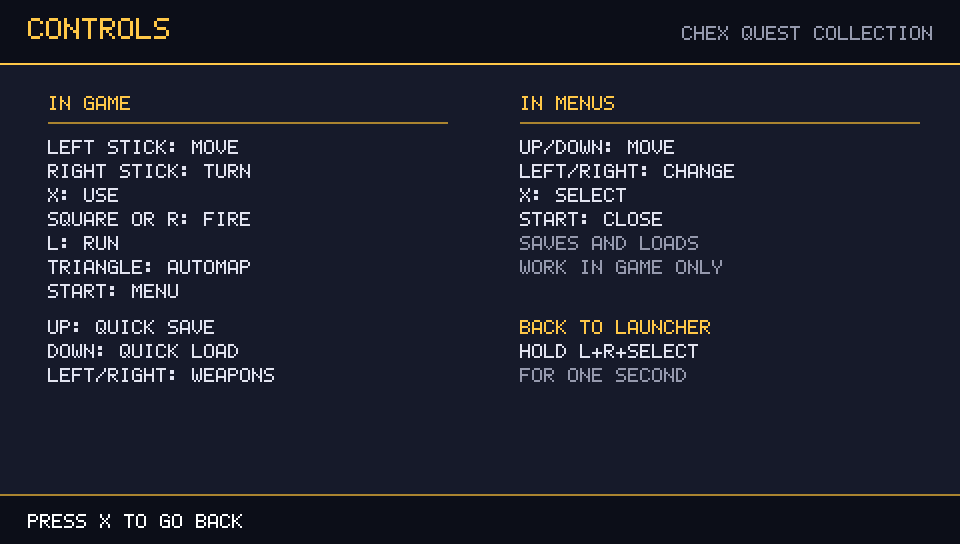
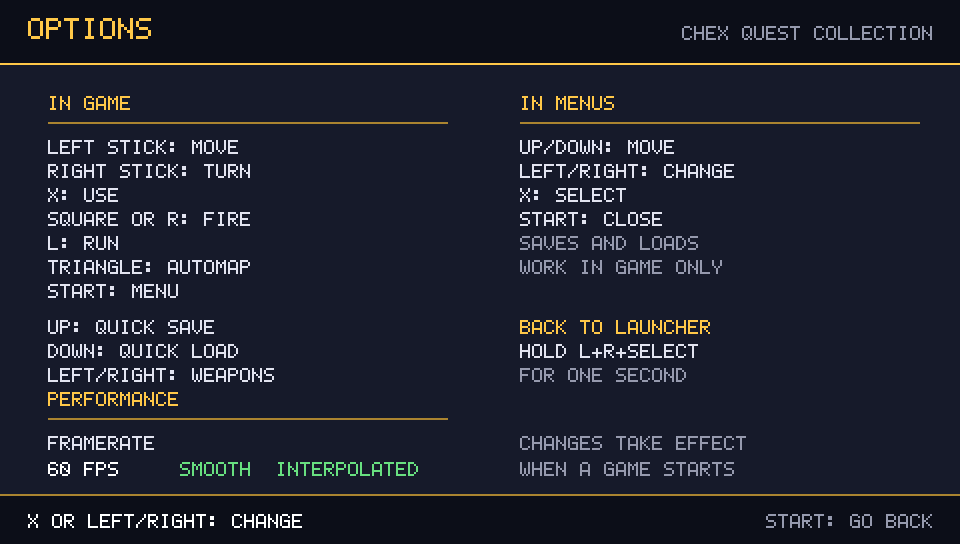
Document the framerate option and refresh the screenshots
The options screen now shows the controls next to the frame pacing setting,
so the README gets a Framerate section explaining what 60 fps interpolated
means and how to get the original 35 back, and the contract tests cover the
new loop, the row-wise upscaler and the saved setting.

🤖 Generated with Codebuff

diff --git a/tests/test_collection_contract.py b/tests/test_collection_contract.py
@@ -62,6 +62,37 @@ class CollectionContractTests(unittest.TestCase):
         for filename in ("assets/logo_chexquest1.png", "assets/logo_chexquest2.png", "assets/logo_chexquest3.png", "launcher.jfif"):
             self.assertTrue((ROOT / filename).is_file(), filename)
 
+    def test_frame_loop_interpolates_the_view_at_sixty(self):
+        source = (ROOT / "doomgeneric_vita.c").read_text(encoding="utf-8")
+        # The game is drawn once per vsync, from an interpolated camera ...
+        self.assertIn("static void game_loop_smooth(void)", source)
+        self.assertIn("view_apply(subtic_fraction());", source)
+        self.assertIn("view_restore();", source)
+        self.assertIn("D_Display();", source)
+        # ... while the original tic paced loop stays available as an option.
+        self.assertIn("static void game_loop_classic(void)", source)
+        self.assertIn("FPS_CLASSIC 35", source)
+        self.assertIn("FPS_SMOOTH 60", source)
+        self.assertNotIn("while (1) doomgeneric_Tick();", source)
+
+    def test_upscaler_expands_each_source_row_once(self):
+        source = (ROOT / "doomgeneric_vita.c").read_text(encoding="utf-8")
+        self.assertIn("static void blit_expand_row", source)
+        self.assertIn("memcpy(dst + y * VITA_W, blit_line, sizeof(blit_line));", source)
+        self.assertIn("int sy = blit_row_src[y];", source)
+        # the per pixel palette branch and the fixed point walk are gone
+        self.assertNotIn("if (launcher_frame) {", source)
+        self.assertNotIn("sx_f += step_x;", source)
+
+    def test_framerate_choice_is_saved_and_documented(self):
+        source = (ROOT / "doomgeneric_vita.c").read_text(encoding="utf-8")
+        self.assertIn('VITA_GAME_DATA_DIR "settings.cfg"', source)
+        self.assertIn('"framerate=%d\\n"', source)
+        self.assertIn("settings_load();", source)
+        readme = (ROOT / "README.md").read_text(encoding="utf-8")
+        self.assertIn("## Framerate", readme)
+        self.assertIn("35 FPS (classic)", readme)
+
     def test_readme_is_english(self):
         readme = (ROOT / "README.md").read_text(encoding="utf-8")
         self.assertIn("## PS Vita controls", readme)

diff --git a/README.md b/README.md
@@ -2,7 +2,7 @@
 
 One Vita app for **Chex Quest 1**, **Chex Quest 2** and **Chex Quest 3: Vanilla Edition**. Pick a game in the launcher and press **Cross** or **START** to play it.
 
-The launcher is a proper menu now: it lists the three games plus a data-files row, shows at a glance which games are ready, plays menu music and blips, and can hand you the game data with a QR code if something is missing.
+The launcher is a proper menu now: it lists the three games plus a data-files row, shows at a glance which games are ready, plays menu music and blips, and can hand you the game data with a QR code if something is missing. Games run at **60 frames per second** with a smooth, interpolated view, and the old 35 fps pacing is still one press away in the options screen.
 
 ## Screenshots
 
@@ -14,9 +14,9 @@ The launcher is a proper menu now: it lists the three games plus a data-files ro
 |---|---|
 | ![Data files screen with QR code](docs/screenshots/data-qr.png) | ![Data screen reporting the missing files](docs/screenshots/data-missing.png) |
 
-| Controls | Return to launcher | Quick save |
+| Options and controls | Return to launcher | Quick save |
 |---|---|---|
-| ![Controls screen](docs/screenshots/controls.png) | ![Hold L, R and Select to return to the launcher](docs/screenshots/return-to-launcher.png) | ![Quick saved confirmation](docs/screenshots/quick-save.png) |
+| ![Options screen with the controls and the framerate setting](docs/screenshots/controls.png) | ![Hold L, R and Select to return to the launcher](docs/screenshots/return-to-launcher.png) | ![Quick saved confirmation](docs/screenshots/quick-save.png) |
 
 ## Download and install
 
@@ -77,6 +77,12 @@ Quick saves and loads confirm themselves with a short on-screen message ("QUICK 
 
 To leave a game and go back to the launcher, **hold L + R + SELECT for one second**: a progress bar fills up and the app reloads into the launcher.
 
+## Framerate
+
+Games draw at **60 fps** by default. The simulation still runs on Doom's fixed 35 Hz timestep, so the frame you see is interpolated between the last two tics: movement and turning are continuous instead of stepping 35 times per second, at the cost of the picture being one tic (about 28 ms) behind the input. If you would rather have the most direct feel, open the **OPTIONS** screen with **SELECT** in the launcher and switch to **35 FPS (classic)**, which draws exactly one frame per tic like the original engine.
+
+The choice is stored in `ux0:/data/chexquestcollection/settings.cfg` and applies the next time you start a game. The options screen also lists the full control mapping.
+
 ## Build
 
 Install VitaSDK, then run:
@@ -89,7 +95,7 @@ cmake --build build --parallel 1
 The contract tests check the launcher and data contracts against the sources:
 
 ```sh
-python -m unittest tests.test_collection_contract
+python -m unittest discover -s tests
 ```
 
 Game data and third-party trademarks/artwork remain the property of their respective owners; this project does not distribute WAD or DEH files.

diff --git a/docs/ROADMAP-v1.2.md b/docs/ROADMAP-v1.2.md
@@ -31,6 +31,17 @@ failing the build.
 There is no local VitaSDK, so every build comes from CI. The contract tests in
 `tests/` run locally with `python -m unittest discover -s tests`.
 
+## Status
+
+| Item | State |
+| --- | --- |
+| 60 fps frame loop, interpolated view, cheaper upscaler | implemented on `v1.2-dev`, **needs a test on hardware** |
+| Framerate option (SELECT → OPTIONS, saved in `settings.cfg`) | implemented |
+| Cheats menu | not started |
+| Arena mode | not started |
+| Resolution experiment | not started |
+| Co-op prototype | not started |
+
 ## Requested features and verdicts
 
 | Feature | Verdict | Why |
@@ -104,6 +115,15 @@ Work in three stages, each one testable on its own:
 
 Ship it as an option (`Framerate: 35 / 60`) with the 35 fps path kept as a
 fallback, so a slow scene or a card without the option can fall back safely.
+
+Implemented on `v1.2-dev` as the three stages above: each source row is expanded
+once and copied into the screen rows that map onto it, the port owns the frame
+loop (`game_loop_smooth`), and the camera is interpolated between the previous
+and the current tic (`view_apply` / `view_restore`) with the loop drawing once
+per vsync. The framerate can be switched between 60 and 35 in the options
+screen. What is left is the measurement on a real console: if the software
+renderer cannot keep a frame inside the 16.6 ms vsync window in a busy scene,
+the 35 fps option is the fallback and the resolution stage gets postponed.
 
 Honest note for the release notes: game logic stays 35 Hz because that is the
 Doom fixed timestep; interpolation is what makes the image move smoothly.
